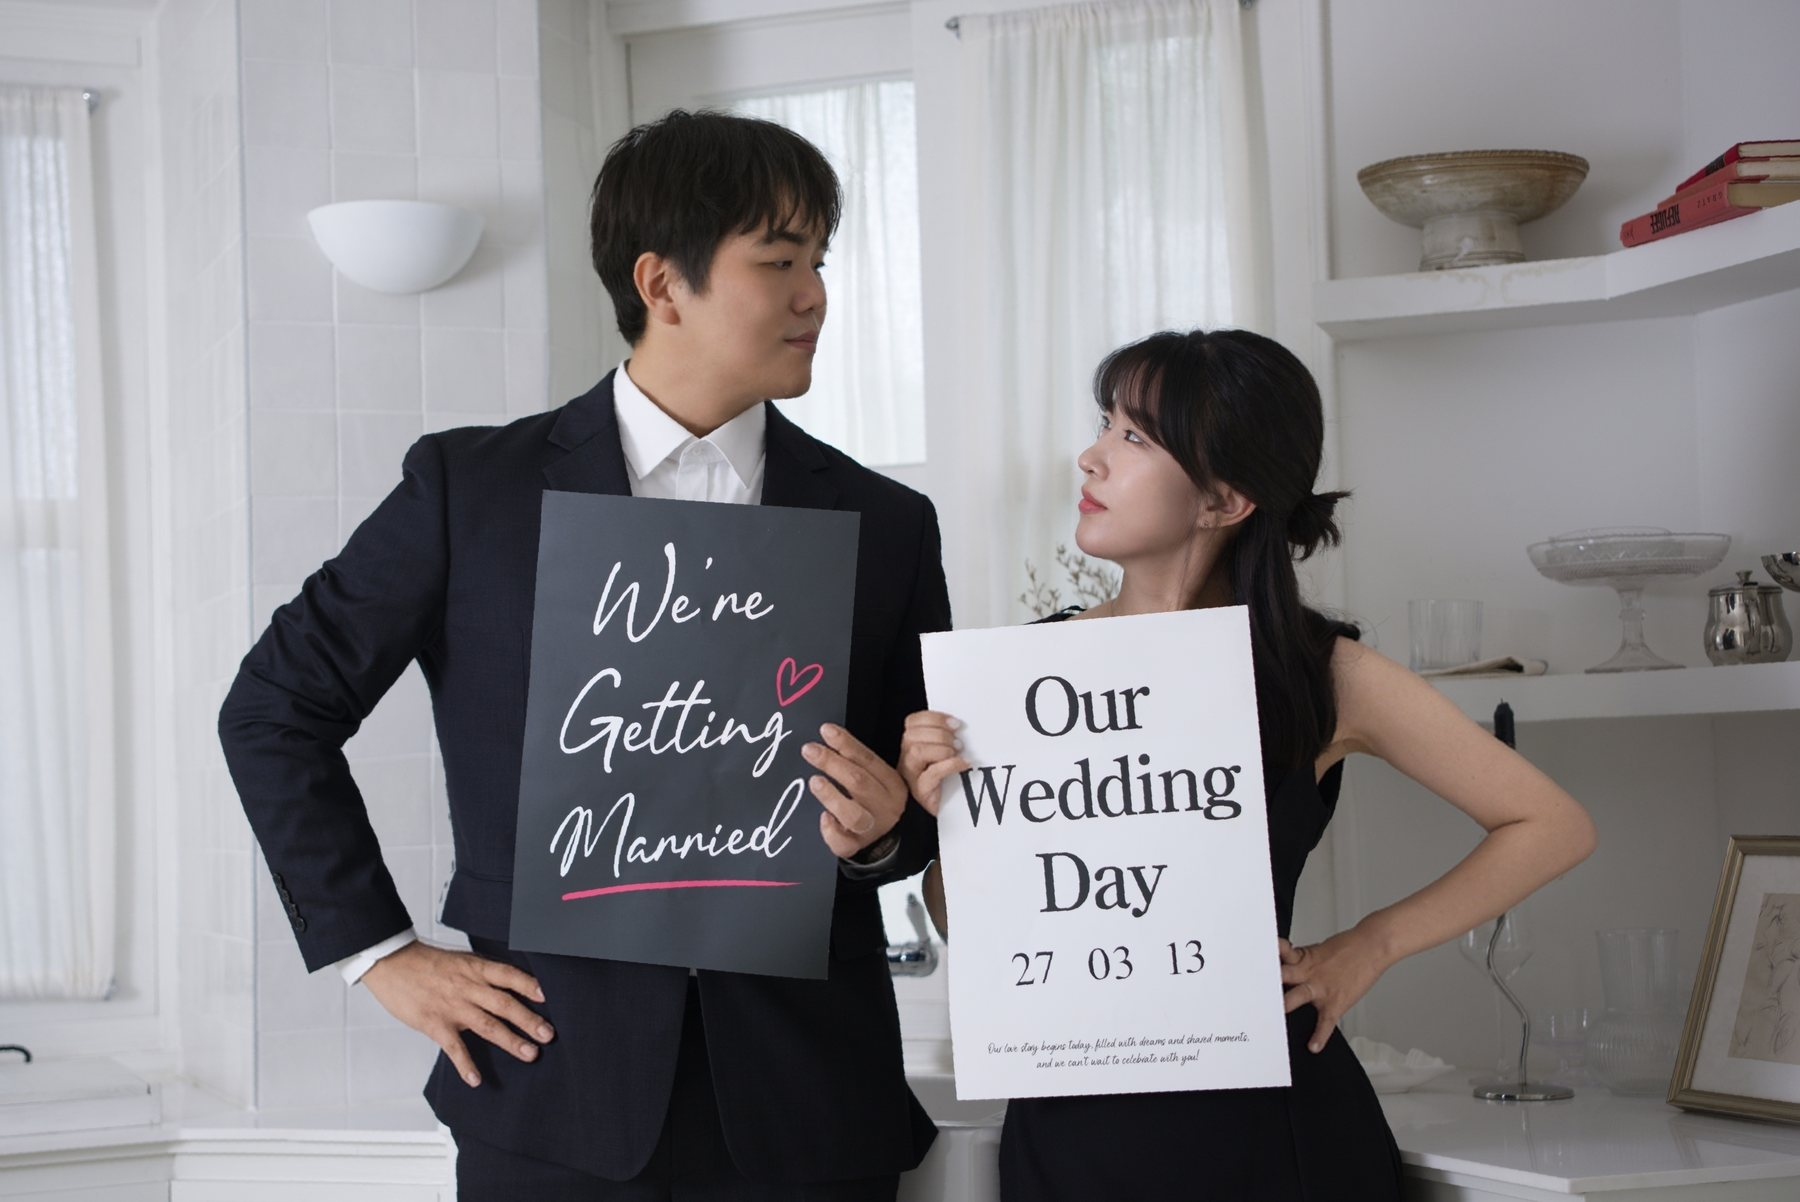
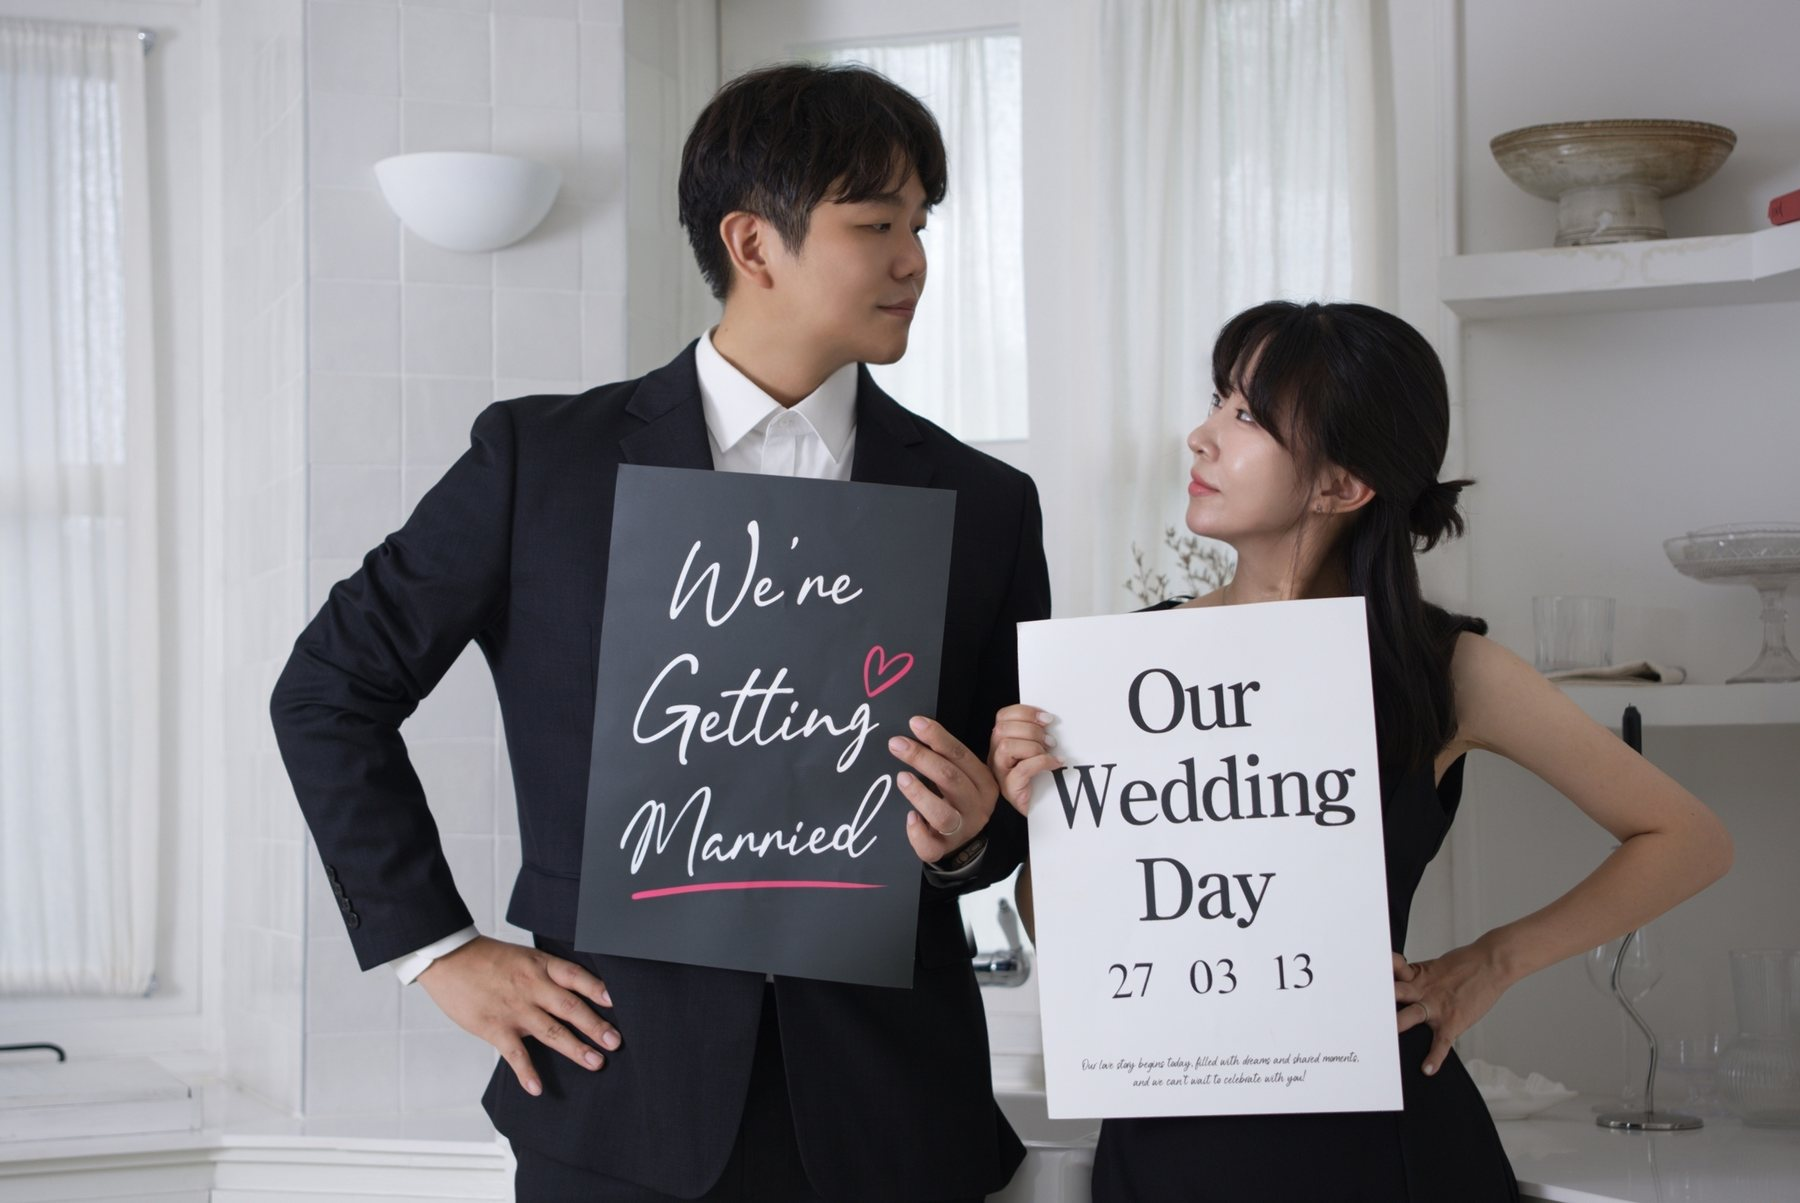
메인 사진·미리보기 사진을 새 1번 사진으로 교체

diff --git a/js/config.js b/js/config.js
@@ -80,7 +80,7 @@ window.WEDDING = {
   mainPhoto: 'images/main.jpg',
   // 메인 사진은 가로로 살짝 넓은 아치(6:5) 안에 잘려 보입니다. 가로 사진이면 어느 쪽을 보여줄지
   // '가로% 세로%' 로 정하세요. 0% = 왼쪽/위, 50% = 가운데, 100% = 오른쪽/아래
-  mainPhotoFocus: '47% 50%',
+  mainPhotoFocus: '78% 50%',
 
   // 갤러리 사진 목록 — 줄을 추가/삭제/순서 변경하면 그대로 반영됩니다.
   gallery: [
